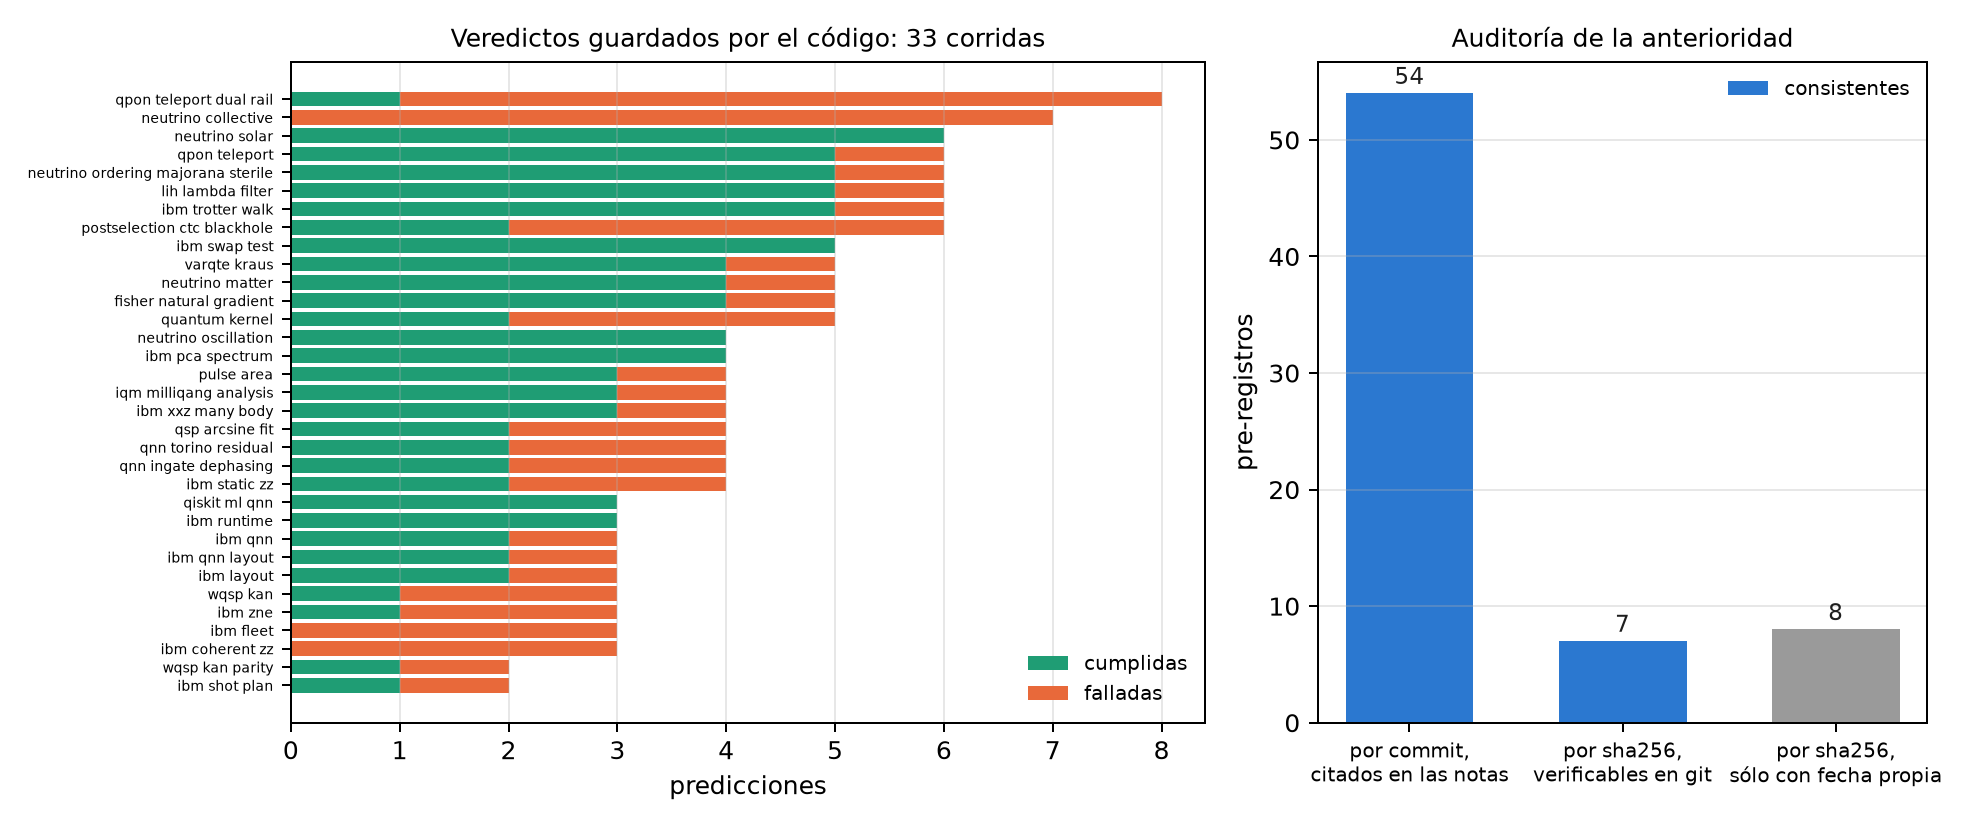
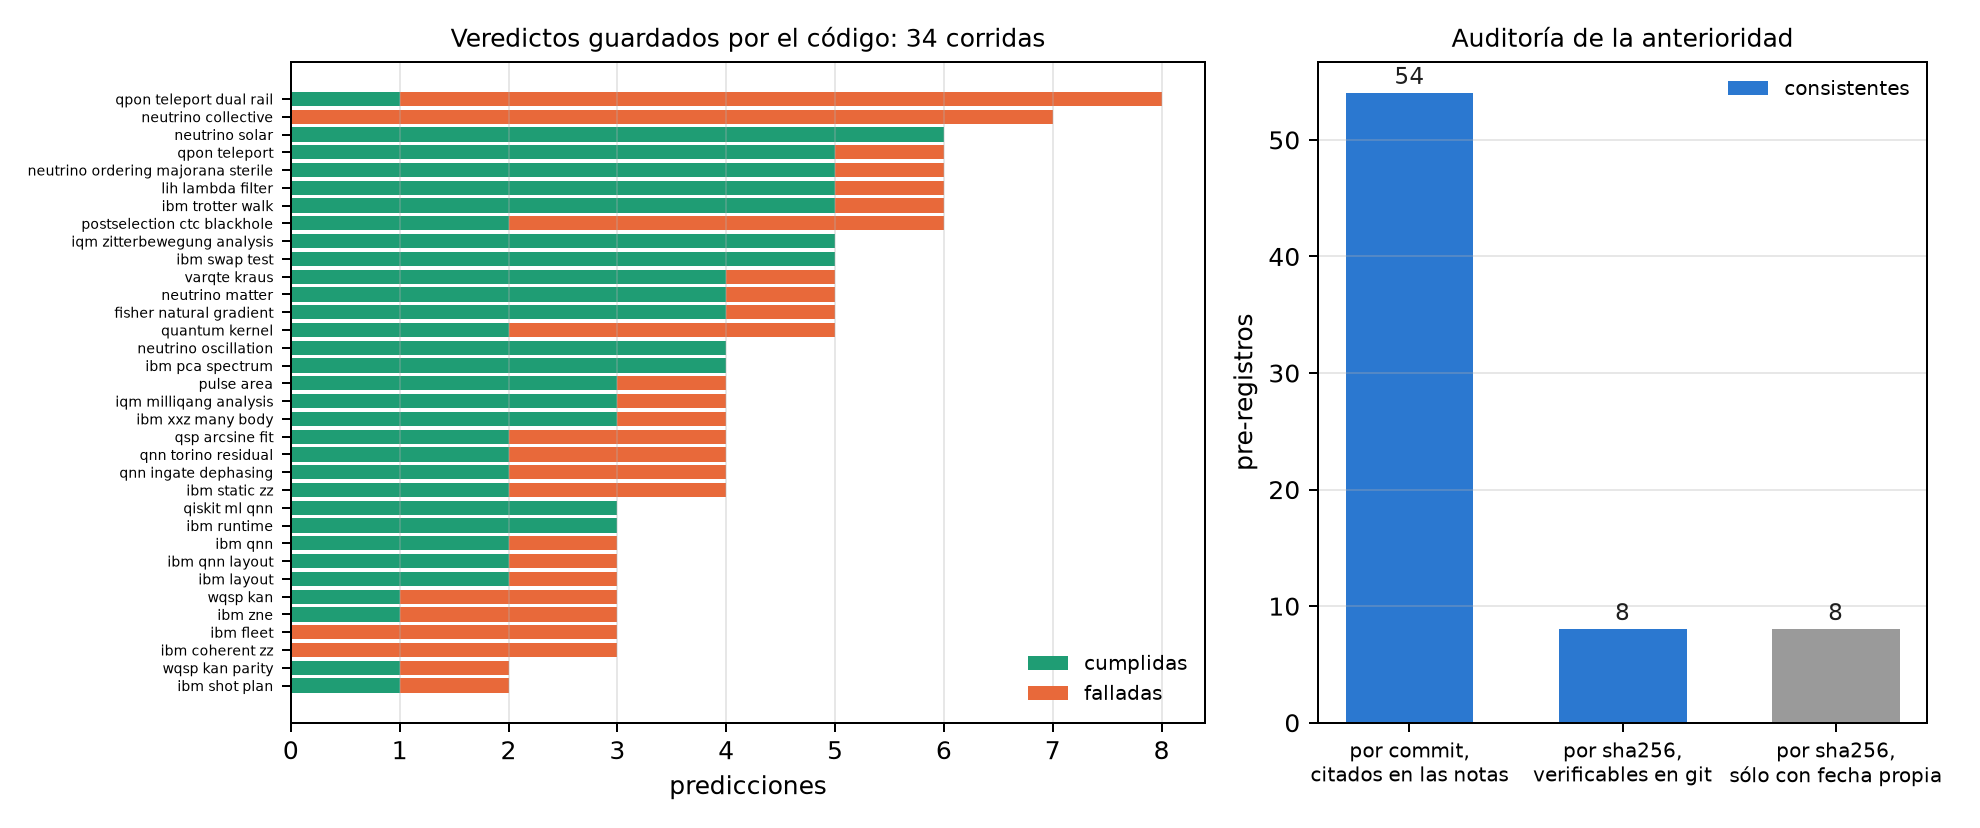
book, capítulos 28, 31 y 35 y apéndice E: la corrida §170 en los recuentos, los créditos y la versión 0.14.0 (ES y EN)
Con §170 la auditoría da 34 corridas, 148 predicciones, 94 cumplidas (64 %) y 54 falladas, y 8 de 16
pre-registros sha256 comprobables en git (el de §170 se subió en su propio commit antes del trabajo). Se
regeneraron el apéndice E (make_appendices.py; A–D y F salen idénticos) y la figura del capítulo 28, cuyo
título decía 33 fijo y ahora cuenta las corridas. El apéndice E ya no dice «dos corridas, 7 de 8»: son tres,
con 12 de 13 predicciones cumplidas, y sólo §165 prueba una ventaja. El capítulo 31 suma la corrida de §170
a la tabla de créditos (≈ 7,7, estimado; el saldo no se registró). El capítulo 35 nombra qang.qga de 0.14.0.
README e índices con los recuentos nuevos.

Changed region(s): [[0.0308, 0.1208, 0.4929, 0.8152], [0.7702, 0.7246, 0.8626, 0.785], [0.4621, 0.0302, 0.4929, 0.0604]]

diff --git a/tools/make_appendices.py b/tools/make_appendices.py
@@ -947,16 +947,17 @@ figure (`tools/make_cap28_figures.py`), so its totals are the chapter's."""), ""
 - **Las afirmaciones empíricas sí.** Cada una dice que una lectura con qang es más exacta, más barata o más estable que sin
   qang, y se fija con un umbral antes de correr. Una predicción fallada se publica con su número y no se reescribe.
 - **Qué falsaría el programa entero.** Que las ventajas del capítulo 29 no se repitieran en hardware real con umbrales fijados
-  antes. Hoy esa prueba tiene dos corridas en IQM Garnet (§165 y §168) con 7 de 8 predicciones cumplidas. Es poco para
-  decidir.""",
+  antes. Hoy hay tres corridas en IQM Garnet, con 12 de 13 predicciones cumplidas, pero sólo una prueba una ventaja: §165,
+  el filtro de peso en neutrinos. §168 y §170 prueban la escala y la lectura, no una ventaja. Es poco para decidir.""",
                """- **Definitions and identities are not falsified by experiments.** The qg unit, the milli-qang, the probability
   equation and the formulas of Appendices A and B are proven or checked to machine precision in `tests/`. If one fails, it
   is a code bug, not a result.
 - **Empirical claims are.** Each says that a reading with qang is more accurate, cheaper or more stable than without qang,
   and it is fixed with a threshold before running. A failed prediction is published with its number and not rewritten.
 - **What would falsify the programme as a whole.** That the advantages of Chapter 29 did not repeat on real hardware with
-  thresholds fixed in advance. Today that test has two runs on IQM Garnet (§165 and §168), with 7 of 8 predictions passed.
-  That is too little to decide."""), "",
+  thresholds fixed in advance. Today there are three runs on IQM Garnet, with 12 of 13 predictions passed, but only one
+  tests an advantage: §165, the weight filter on neutrinos. §168 and §170 test the scale and the reading, not an
+  advantage. That is too little to decide."""), "",
              t("## Veredictos guardados por el código {#sec-e-veredictos}", "## Verdicts stored by the code {#sec-e-verdicts}"), "",
              t("""Cada archivo de `examples/data/` con un diccionario `verdict` es una corrida cuyas predicciones juzgó el propio
 script. La columna § es la sección de las notas que nombra al script.""",

diff --git a/tools/make_cap28_figures.py b/tools/make_cap28_figures.py
@@ -43,7 +43,7 @@ TEXT = {
         "v_x": "predicciones",
         "v_pass": "cumplidas",
         "v_fail": "falladas",
-        "v_title": "Veredictos guardados por el código: 33 corridas",
+        "v_title": "Veredictos guardados por el código: {n} corridas",
         "a_y": "pre-registros",
         "a_cats": ("por commit,\ncitados en las notas", "por sha256,\nverificables en git", "por sha256,\nsólo con fecha propia"),
         "a_ok": "consistentes",
@@ -54,7 +54,7 @@ TEXT = {
         "v_x": "predictions",
         "v_pass": "passed",
         "v_fail": "failed",
-        "v_title": "Verdicts stored by the code: 33 runs",
+        "v_title": "Verdicts stored by the code: {n} runs",
         "a_y": "pre-registrations",
         "a_cats": ("by commit,\ncited in the notes", "by sha256,\ncheckable in git", "by sha256,\nown timestamp only"),
         "a_ok": "consistent",
@@ -152,7 +152,7 @@ def figure(t, rows, sha, n_commit, ok_commit):
     ax1.set_yticks(y)
     ax1.set_yticklabels([r[0].replace("_qg", "").replace("_", " ") for r in rows], fontsize=5.5)
     ax1.set_xlabel(t["v_x"])
-    ax1.set_title(t["v_title"], fontsize=10)
+    ax1.set_title(t["v_title"].format(n=len(rows)), fontsize=10)
     ax1.legend(fontsize=8, frameon=False, loc="lower right")
     ax1.grid(axis="x", alpha=0.3)
     ver = sum(1 for r in sha if r["match_at_prereg"] and r["before_results"])

diff --git a/book/INDICE_MAESTRO_ES.md b/book/INDICE_MAESTRO_ES.md
@@ -325,9 +325,9 @@ hasta que exista una corrida real (Parte X).
 ## PARTE X. Evidencia experimental, hardware real y auditoría de falsación
 
 ### Capítulo 28. Metodología: el protocolo de falsación pre-registrada
-28.0 ✅ escrito: auditoría del repositorio con código (tools/make_cap28_figures.py). 33 corridas guardan veredictos: 143 predicciones, 89 cumplidas y 54 falladas; las 54 predicciones fijadas por commit (§71–§165) son anteriores a sus resultados; de los 15 pre-registros por sha256, 7 se comprueban en git y 8 sólo tienen su propia fecha. Hardware real: IQM Garnet, neutrinos (4 de 4, 1,59×) y milli-qang (3 de 4, 1,64 m-qg por X) — figura: auditoría
+28.0 ✅ escrito: auditoría del repositorio con código (tools/make_cap28_figures.py). 34 corridas guardan veredictos: 148 predicciones, 94 cumplidas y 54 falladas (actualizado 2026-11-02 con §170); las 54 predicciones fijadas por commit (§71–§165) son anteriores a sus resultados; de los 16 pre-registros por sha256, 8 se comprueban en git y 8 sólo tienen su propia fecha. Hardware real: IQM Garnet, neutrinos (4 de 4, 1,59×) y milli-qang (3 de 4, 1,64 m-qg por X) — figura: auditoría
 28.1 La disciplina del pre-registro: hipótesis y predicciones comprometidas (commit o sha256) antes de correr — §46, §75–§164
-28.2 Balance de aciertos y fallos: 89/54 en las 33 corridas con veredictos guardados; "123 / 53" es sólo la línea QML (§75–§123, README). El recuento total de §1–§168 queda a mano
+28.2 Balance de aciertos y fallos: 94/54 en las 34 corridas con veredictos guardados; "123 / 53" es sólo la línea QML (§75–§123, README). El recuento total de §1–§170 queda a mano
 28.3 Bancos de prueba: modelos de ruido calibrados de IBM (Brisbane, Sherbrooke, Torino, Fez, flota de 21) e IonQ (Aria-1, Forte-1) — §20, §137, §144
 28.4 Ejecución en hardware real: IonQ Forte-1 (§128) rechazado antes de aceptar el trabajo; IQM Garnet (§165, §168) da los dos primeros datos reales. QuTech/Quantum Inspire no aparece en el repo y no se usa
 28.5 El criterio Var_θ(F_eco) no está definido en el repo: el capítulo lo deja fuera como propuesta sin escribir

diff --git a/book/INDICE_MAESTRO_EN.md b/book/INDICE_MAESTRO_EN.md
@@ -326,9 +326,9 @@ devices until a real run exists (Part X).
 ## PART X. Experimental evidence, real hardware and the falsification audit
 
 ### Chapter 28. Methodology: the pre-registered falsification protocol
-28.0 ✅ written: an audit of the repository in code (tools/make_cap28_figures.py). 33 runs store verdicts: 143 predictions, 89 passed and 54 failed; the 54 predictions pinned by commit (§71–§165) precede their results; of the 15 sha256 pre-registrations, 7 are checkable in git and 8 only have their own timestamp. Real hardware: IQM Garnet, neutrinos (4 of 4, 1.59×) and milli-qang (3 of 4, 1.64 m-qg per X) — figure: audit
+28.0 ✅ written: an audit of the repository in code (tools/make_cap28_figures.py). 34 runs store verdicts: 148 predictions, 94 passed and 54 failed (updated 2026-11-02 with §170); the 54 predictions pinned by commit (§71–§165) precede their results; of the 16 sha256 pre-registrations, 8 are checkable in git and 8 only have their own timestamp. Real hardware: IQM Garnet, neutrinos (4 of 4, 1.59×) and milli-qang (3 of 4, 1.64 m-qg per X) — figure: audit
 28.1 The discipline of pre-registration: hypotheses and predictions committed (commit or sha256) before running — §46, §75–§164
-28.2 Passes and failures: 89/54 over the 33 runs with stored verdicts; "123 / 53" is only the QML line (§75–§123, README). The full count of §1–§168 is left to be done by hand
+28.2 Passes and failures: 94/54 over the 34 runs with stored verdicts; "123 / 53" is only the QML line (§75–§123, README). The full count of §1–§170 is left to be done by hand
 28.3 Test beds: calibrated noise models of IBM (Brisbane, Sherbrooke, Torino, Fez, a fleet of 21) and IonQ (Aria-1, Forte-1) — §20, §137, §144
 28.4 Runs on real hardware: IonQ Forte-1 (§128) refused before the job was accepted; IQM Garnet (§165, §168) gives the first two real data points. QuTech/Quantum Inspire does not appear in the repository and is not used
 28.5 The Var_θ(F_echo) criterion is not defined in the repository: the chapter leaves it out as an unwritten proposal

diff --git a/README.md b/README.md
@@ -53,8 +53,8 @@ Reference implementation and computational toolkit for:
   3 of 4 predictions passed, and M2 (the equator scatters half the binomial level) is open.
 - **The book is complete**: 35 chapters and appendices A–F, in Spanish and English
   ([Español](https://viny2030.github.io/qang/es/) · [English](https://viny2030.github.io/qang/en/)). The appendices are
-  generated from the code by `tools/make_appendices.py`. Appendix E is the falsification register: 143 predictions stored
-  with their verdicts (89 passed, 54 failed), 54 of 54 commit pre-registrations consistent, 7 of 15 sha256
+  generated from the code by `tools/make_appendices.py`. Appendix E is the falsification register: 148 predictions stored
+  with their verdicts (94 passed, 54 failed), 54 of 54 commit pre-registrations consistent, 8 of 16 sha256
   pre-registrations checkable in git.
 - **Upstream proposals from chapter 35**, posted: [qiskit-experiments#1662](https://github.com/qiskit-community/qiskit-experiments/issues/1662)
   (heralded readout), [mitiq#3173](https://github.com/unitaryfoundation/mitiq/issues/3173) (weight post-selection with
